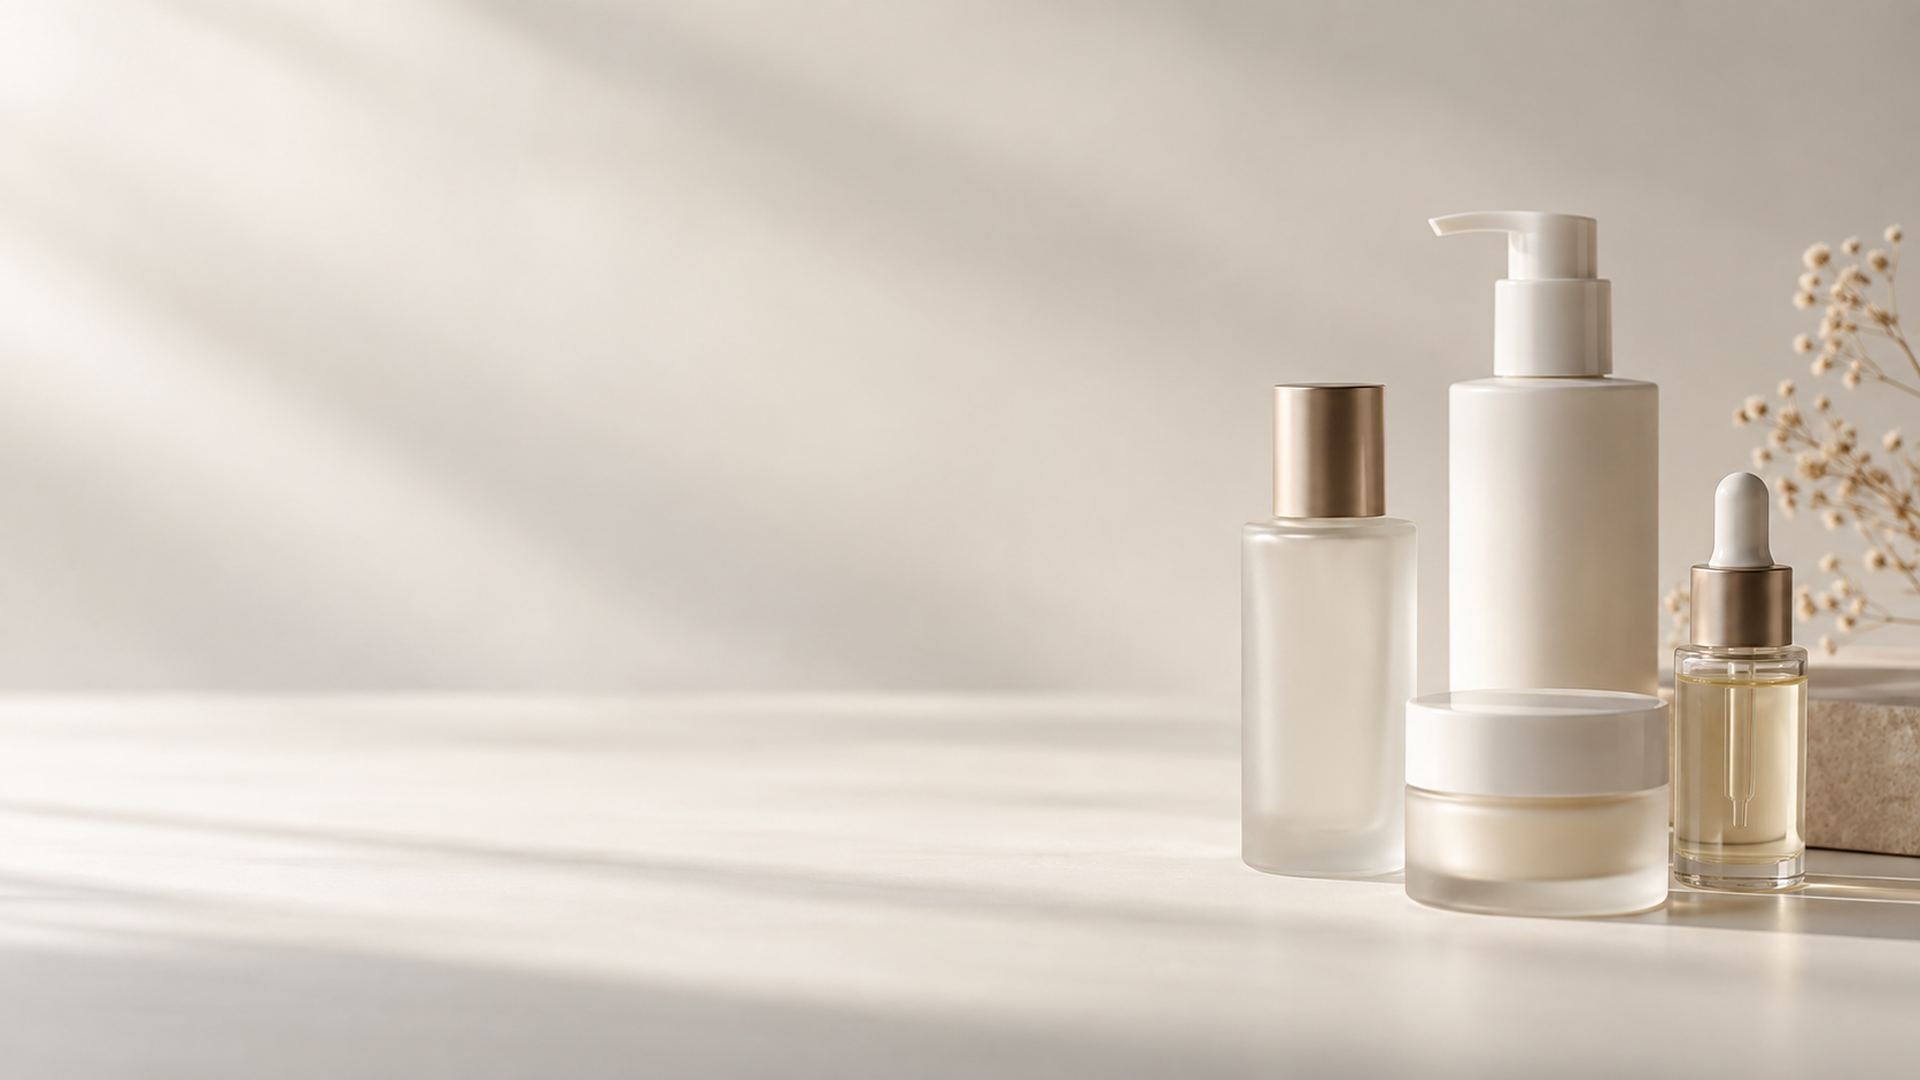
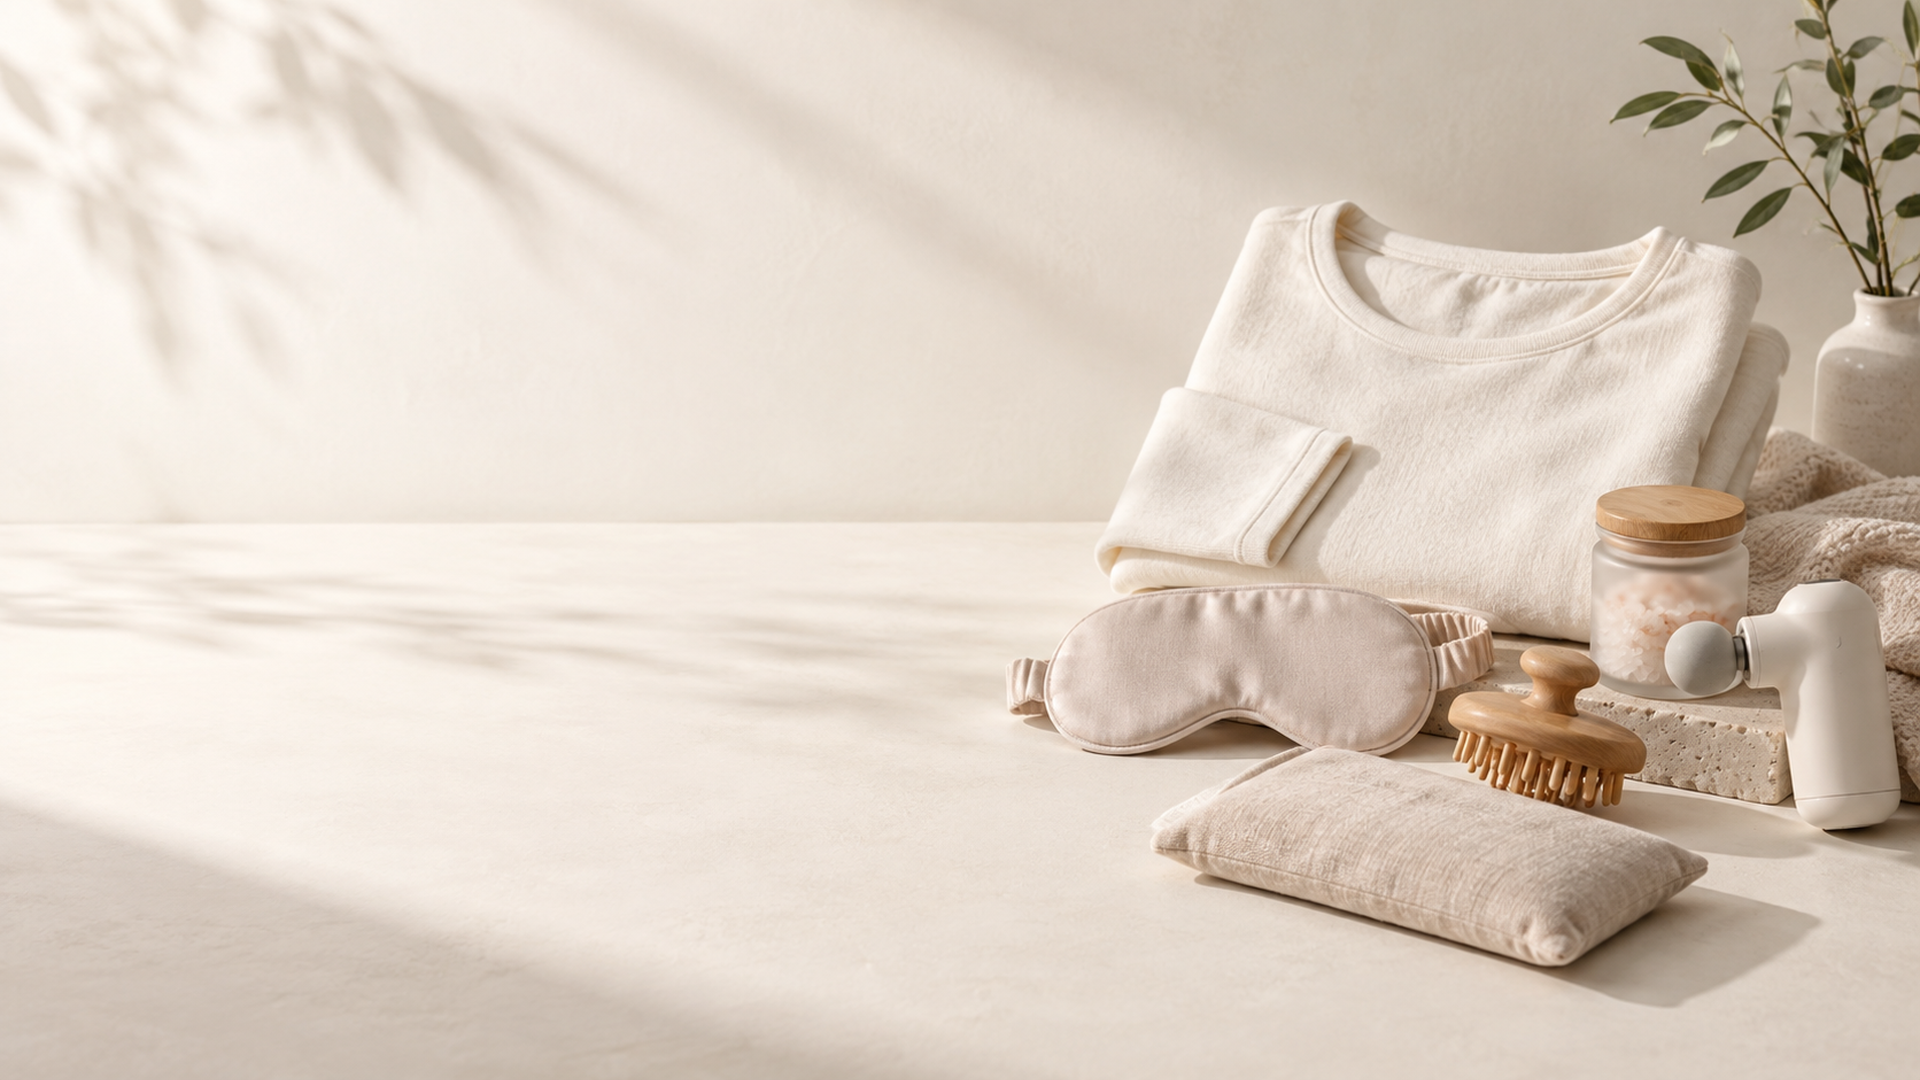
ショップ名をMedifit Selectに変更、取扱ジャンルの画像とアイコンを更新
- title・OGP・ヘッダー・フッターの表記を Medifit Select に
- 取扱ジャンルに合わせてFV・選ぶ基準・はじめた理由の写真を差し替え
- 新しいカテゴリアイコン6点をMedifitの緑で追加（未使用の旧アイコンは公開対象外に）
- OGP画像を新しい背景とショップ名で作り直し

diff --git a/index.html b/index.html
@@ -3,14 +3,13 @@
 <head>
   <meta charset="utf-8">
   <meta name="viewport" content="width=device-width, initial-scale=1, viewport-fit=cover">
-  <!-- TODO: 差し替え ショップ名が確定したら title / og:site_name / ヘッダーの「Needs」を変更 -->
-  <title>Needs｜心と身体に、心地よい選択を。</title>
+  <title>Medifit Select｜心と身体に、心地よい選択を。</title>
   <meta name="description" content="動く。休む。整える。身体に携わる専門家の視点から、温活・リカバリー・コンディショニング用品などを選ぶセルフケアのセレクトショップです。">
   <!-- TODO: 差し替え 独自ドメインを取ったら、canonical / og:url / og:image の URL を置き換える -->
   <link rel="canonical" href="https://ojogori-gpt.github.io/needs-shop/">
   <meta property="og:type" content="website">
-  <meta property="og:site_name" content="Needs">
-  <meta property="og:title" content="Needs｜心と身体に、心地よい選択を。">
+  <meta property="og:site_name" content="Medifit Select">
+  <meta property="og:title" content="Medifit Select｜心と身体に、心地よい選択を。">
   <meta property="og:description" content="動く。休む。整える。身体の専門家の視点から、毎日の暮らしに寄り添うものをお届けするセレクトショップです。">
   <meta property="og:url" content="https://ojogori-gpt.github.io/needs-shop/">
   <meta property="og:image" content="https://ojogori-gpt.github.io/needs-shop/ogp-shop.png">
@@ -27,9 +26,9 @@
 <a class="skip" href="#main">本文へ<wbr>移動</a>
 
 <header class="site-header">
-  <a class="brand" href="./" aria-label="Needs トップへ">
+  <a class="brand" href="./" aria-label="Medifit Select トップへ">
     <img src="assets/icon/logo-mark.png" alt="" width="40" height="40">
-    <span>Needs</span>
+    <span>Medifit Select</span>
   </a>
   <nav class="site-nav" aria-label="ページ内">
     <a href="#concept">コンセプト</a>
@@ -95,19 +94,19 @@
     <div class="wrap">
       <header class="section-head">
         <h2 id="items-title">取り扱う<wbr>もの</h2>
-        <p>温活・リカバリー・コンディショニング用品を<wbr>中心に、<wbr>取り扱いを<wbr>検討している<wbr>ジャンルです。</p>
+        <p>温活・リカバリー・<wbr>コンディショニング用品を<wbr>中心に、<wbr>取り扱いを<wbr>検討している<wbr>ジャンルです。</p>
       </header>
 
       <ul class="item-list">
         <li class="item">
           <img src="assets/icon/cat-warmth.png" alt="" width="200" height="200" loading="lazy">
           <h3>温活・睡眠ケア</h3>
-          <p>アイマスクや<wbr>ウォーマー、<wbr>入浴用品など、<wbr>くつろぎの<wbr>時間に<wbr>寄り添うもの。</p>
+          <p>アイマスクや<wbr>ウォーマー、<wbr>入浴用品など、<wbr>くつろぎの<wbr>時間に<wbr>寄り添う<wbr>もの。</p>
         </li>
         <li class="item">
           <img src="assets/icon/cat-recovery-wear.png" alt="" width="200" height="200" loading="lazy">
           <h3>リカバリーウェア</h3>
-          <p>休息時や<wbr>日常で<wbr>着用しやすい、<wbr>ウェアや<wbr>サポートアイテム。</p>
+          <p>休息時や<wbr>日常で<wbr>着用しや<wbr>すい、<wbr>ウェアや<wbr>サポートアイテム。</p>
         </li>
         <li class="item">
           <img src="assets/icon/cat-hair-scalp.png" alt="" width="200" height="200" loading="lazy">
@@ -117,17 +116,17 @@
         <li class="item">
           <img src="assets/icon/cat-device-v2.png" alt="" width="200" height="200" loading="lazy">
           <h3>セルフケア機器</h3>
-          <p>温熱・振動・<wbr>マッサージなど、<wbr>自宅で<wbr>使いやすい<wbr>ケア機器。</p>
+          <p>温熱・振動・マッサージなど、<wbr>自宅で<wbr>使いやすい<wbr>ケア機器。</p>
         </li>
         <li class="item">
           <img src="assets/icon/cat-nutrition.png" alt="" width="200" height="200" loading="lazy">
           <h3>腸活・栄養サポート</h3>
-          <p>食物繊維・<wbr>乳酸菌・<wbr>プロテインなど、<wbr>食生活を<wbr>支えるもの。</p>
+          <p>食物繊維・乳酸菌・プロテインなど、<wbr>食生活を<wbr>支える<wbr>もの。</p>
         </li>
         <li class="item">
           <img src="assets/icon/cat-conditioning.png" alt="" width="200" height="200" loading="lazy">
           <h3>コンディショニング</h3>
-          <p>フォームローラーや<wbr>ストレッチ用品など、<wbr>身体を<wbr>整えるための<wbr>道具。</p>
+          <p>フォームローラーや<wbr>ストレッチ用品など、<wbr>身体を<wbr>整える<wbr>ための<wbr>道具。</p>
         </li>
       </ul>
     </div>
@@ -142,7 +141,7 @@
         <ul class="criteria">
           <li>自分たち自身も、<wbr>使いたいと<wbr>思えるか</li>
           <li>大切な<wbr>人にも、<wbr>届けたいと<wbr>思えるか</li>
-          <li>素材・設計・<wbr>使い方に、<wbr>納得できる<wbr>理由があるか</li>
+          <li>素材・設計・<wbr>使い方に、<wbr>納得できる<wbr>理由が<wbr>あるか</li>
           <li>品質や<wbr>使い心地に、<wbr>こだわっているか</li>
         </ul>
       </div>
@@ -391,7 +390,7 @@
   <div class="wrap site-footer__inner">
     <a class="brand" href="./">
       <img src="assets/icon/logo-mark.png" alt="" width="32" height="32">
-      <span>Needs</span>
+      <span>Medifit Select</span>
     </a>
     <p class="site-footer__tag">動く。<wbr>休む。<wbr>整える。</p>
     <nav aria-label="フッター">

diff --git a/privacy/index.html b/privacy/index.html
@@ -3,7 +3,7 @@
 <head>
   <meta charset="utf-8">
   <meta name="viewport" content="width=device-width, initial-scale=1, viewport-fit=cover">
-  <title>プライバシーポリシー｜Needs</title>
+  <title>プライバシーポリシー｜Medifit Select</title>
   <meta name="robots" content="noindex">
   <link rel="icon" type="image/png" href="../favicon.png">
   <link rel="preconnect" href="https://fonts.googleapis.com">
@@ -16,7 +16,7 @@
 <header class="site-header">
   <a class="brand" href="../">
     <img src="../assets/icon/logo-mark.png" alt="" width="40" height="40">
-    <span>Needs</span>
+    <span>Medifit Select</span>
   </a>
   <nav class="site-nav" aria-label="サイト">
     <a href="../#stores" class="site-nav__store">取扱ストア</a>
@@ -65,7 +65,7 @@
   <div class="wrap site-footer__inner">
     <a class="brand" href="../">
       <img src="../assets/icon/logo-mark.png" alt="" width="32" height="32">
-      <span>Needs</span>
+      <span>Medifit Select</span>
     </a>
     <p class="site-footer__tag">動く。<wbr>休む。<wbr>整える。</p>
     <p class="site-footer__copy"><small>&copy; 株式会社Needs</small></p>
